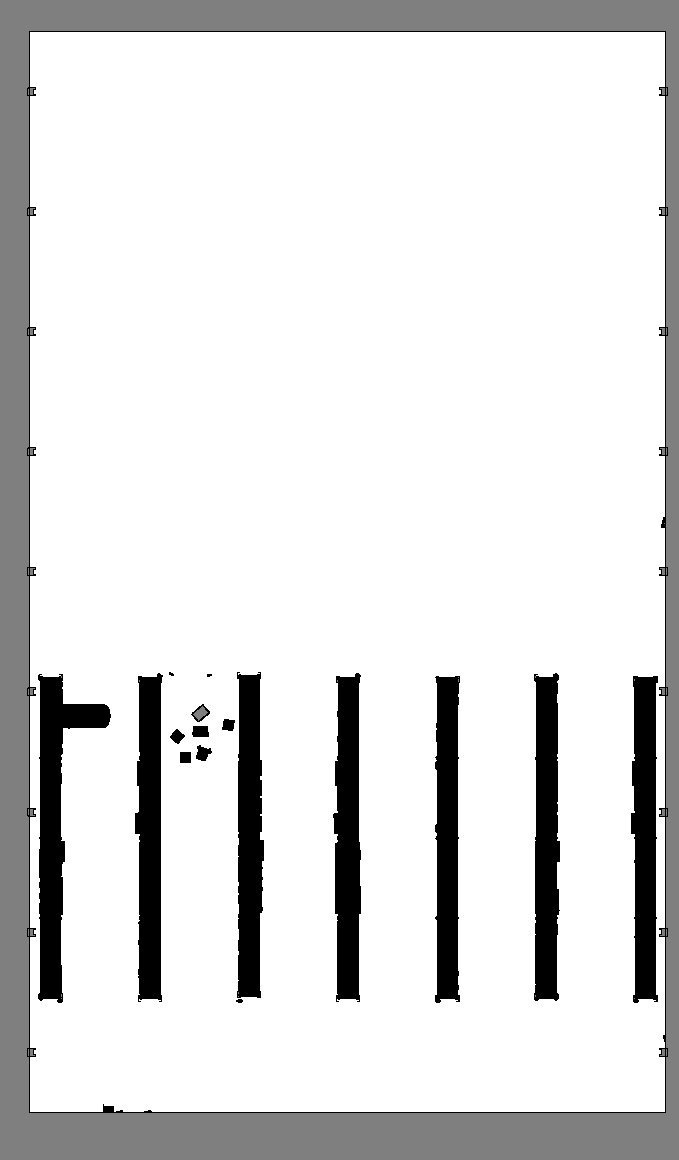
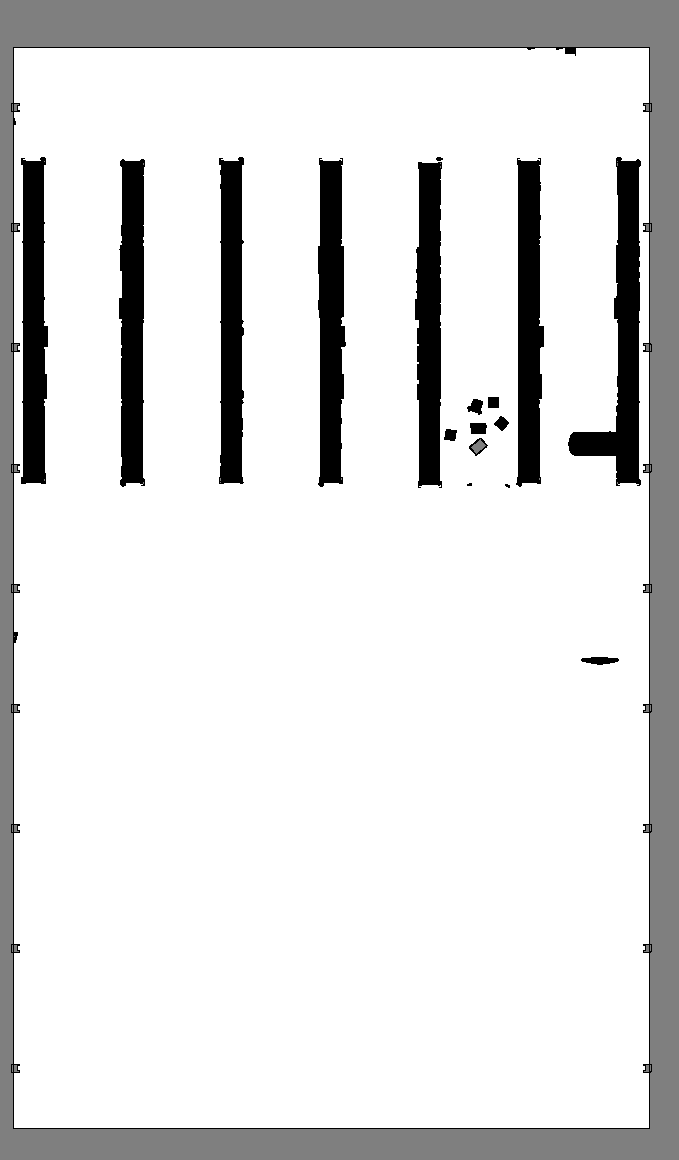
nav2 연동

diff --git a/ros2/go2_ros2_bridge.py b/ros2/go2_ros2_bridge.py
@@ -39,11 +39,8 @@ class RobotDataManager:
     def _setup_joint_state_publishers(self):
             self.joint_pubs = []
             for i in range(self.num_envs):
-                if self.num_envs == 1:
-                    topic_name = "joint_states"
-                else:
-                    topic_name = f"robot{i}/joint_states"
-                
+
+                topic_name = f"env{i}/joint_states"
                 # 퍼블리셔 생성 (메시지 타입: JointState, 큐 사이즈: 10)
                 pub = self.node.create_publisher(JointState, topic_name, 10)
                 self.joint_pubs.append(pub)
@@ -54,10 +51,8 @@ class RobotDataManager:
         """각 환경별 cmd_vel 토픽 구독 설정"""
         self._velocity_subs = []
         for i in range(self.num_envs):
-            if self.num_envs == 1:
-                topic_name = "cmd_vel"
-            else:
-                topic_name = f"robot{i}/cmd_vel"
+
+            topic_name = f"env{i}/cmd_vel"
             # 클로저를 사용하여 인덱스 i를 캡처
             sub = self.node.create_subscription(
                 Twist,
@@ -88,12 +83,9 @@ class RobotDataManager:
                 # 각 환경별 고유한 그래프 경로
                 graph_path = f"/World/Graph/Camera/Camera_ROS_Graph_env_{i}"
                 
-                if self.num_envs == 1:
-                    topic_name = "camera"
-                    frame_id = "camera_link"
-                else:
-                    topic_name = f"robot{i}/camera"
-                    frame_id = f"robot{i}/camera_link"
+
+                topic_name = f"env{i}/camera"
+                frame_id = f"env{i}/camera_link"
 
                 try:
                     # OmniGraph 구성
@@ -132,12 +124,9 @@ class RobotDataManager:
                 # 2. 각 환경별 고유 그래프 경로
                 graph_path = f"/World/Graph/Lidar/Lidar_ROS_Graph_env_{i}"
                 
-                if self.num_envs == 1:
-                    topic_name = "point_cloud2"
-                    frame_id = "lidar_link"
-                else:
-                    topic_name = f"robot{i}/point_cloud2"
-                    frame_id = f"robot{i}/lidar_link"
+
+                topic_name = f"env{i}/point_cloud2"
+                frame_id = f"env{i}/lidar_link"
 
                 # 3. OmniGraph 노드 생성 및 설정
                 og.Controller.edit(
@@ -171,14 +160,10 @@ class RobotDataManager:
         for i in range(self.num_envs):
             graph_path = f"/World/Graph/Odom/Odom_ROS_Graph_env_{i}"
             
-            if self.num_envs == 1:
-                topic_name = "odom"
-                odom_frame_id = "odom"
-                chassis_frame_id = "base_link"
-            else:
-                topic_name = f"robot{i}/odom"
-                odom_frame_id = f"robot{i}/odom"
-                chassis_frame_id = f"robot{i}/base_link" 
+
+            topic_name = f"env{i}/odom"
+            odom_frame_id = f"odom"
+            chassis_frame_id = f"env{i}/base_link" 
 
             try:
                 og.Controller.edit(
@@ -272,10 +257,7 @@ class RobotDataManager:
                 
                 # Header 채우기
                 msg.header.stamp = ros_time_msg
-                if self.num_envs == 1:
-                    msg.header.frame_id = "base_link"
-                else:
-                    msg.header.frame_id = f"robot{i}/base_link"
+                msg.header.frame_id = f"env{i}/base_link"
                 
                 # 데이터 채우기 (Tensor -> List 변환 필수!)
                 msg.name = robot_data.joint_names 
@@ -288,12 +270,6 @@ class RobotDataManager:
 
             except Exception as e:
                 pass
-
-
-
-
-
-
 
 
         if character is not None:

diff --git a/go2_utils/omap_gen.py b/go2_utils/omap_gen.py
@@ -87,9 +87,10 @@ def generate_nav2_map(cfg):
     # Nav2 호환을 위해 Grayscale 변환
     im = im.convert("L")
     
-    # 필요한 경우 상하 반전 (Isaac Sim 좌표계 -> 이미지 좌표계)
-    # im = im.transpose(Image.FLIP_TOP_BOTTOM) 
 
+    im = im.transpose(Image.FLIP_LEFT_RIGHT) # 좌우 반전
+    im = im.transpose(Image.FLIP_TOP_BOTTOM) # 상하 반전 (Nav2 원점 맞춤) [1]
+    im = im.convert("L")
     im.save(full_pgm_path)
     print(f"[INFO] Map image saved to: {full_pgm_path}")
 
@@ -98,7 +99,7 @@ def generate_nav2_map(cfg):
         "image": pgm_filename,
         "mode": "trinary",
         "resolution": cell_size,
-        "origin": [origin[0] - min_bound[0], origin[1] - min_bound[1], 0.0],
+        "origin": [origin[0] + min_bound[0], origin[1] + min_bound[1], 0.0],
         "negate": 0,
         "occupied_thresh": 0.65,
         "free_thresh": 0.25

diff --git a/cmd_vel_gui.py b/cmd_vel_gui.py
@@ -22,7 +22,7 @@ class Go2MultiCmdVelPublisher(Node):
 
         for i in range(self.num_envs):
             # go2_ros2_bridge.py에서 구독하는 토픽명과 일치시킴
-            topic_name = f'/env_{i}/unitree_go2/cmd_vel'
+            topic_name = f'/env{i}/cmd_vel'
             pub = self.create_publisher(Twist, topic_name, 10)
             self.publishers_list.append(pub)
             self.vel_commands.append({'x': 0.0, 'y': 0.0, 'z': 0.0})
